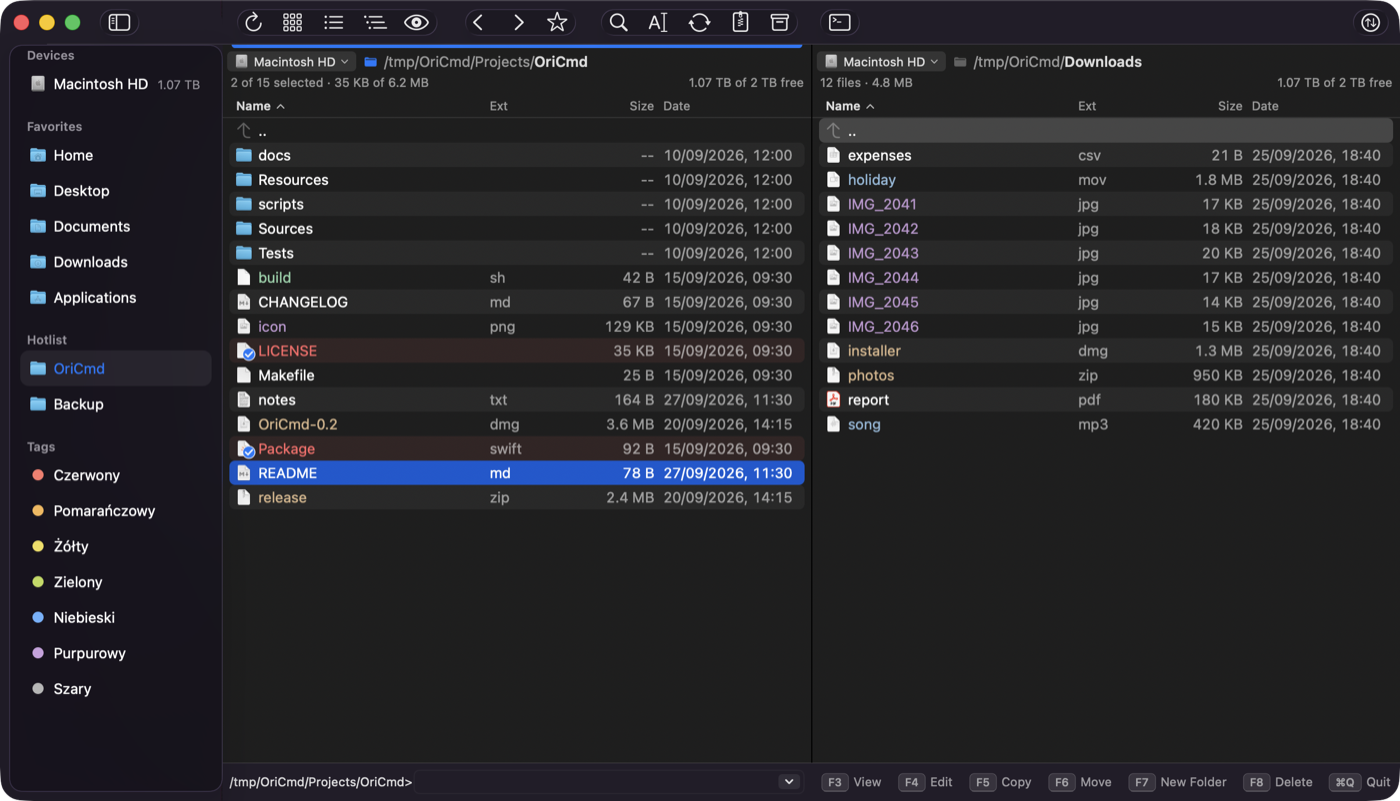
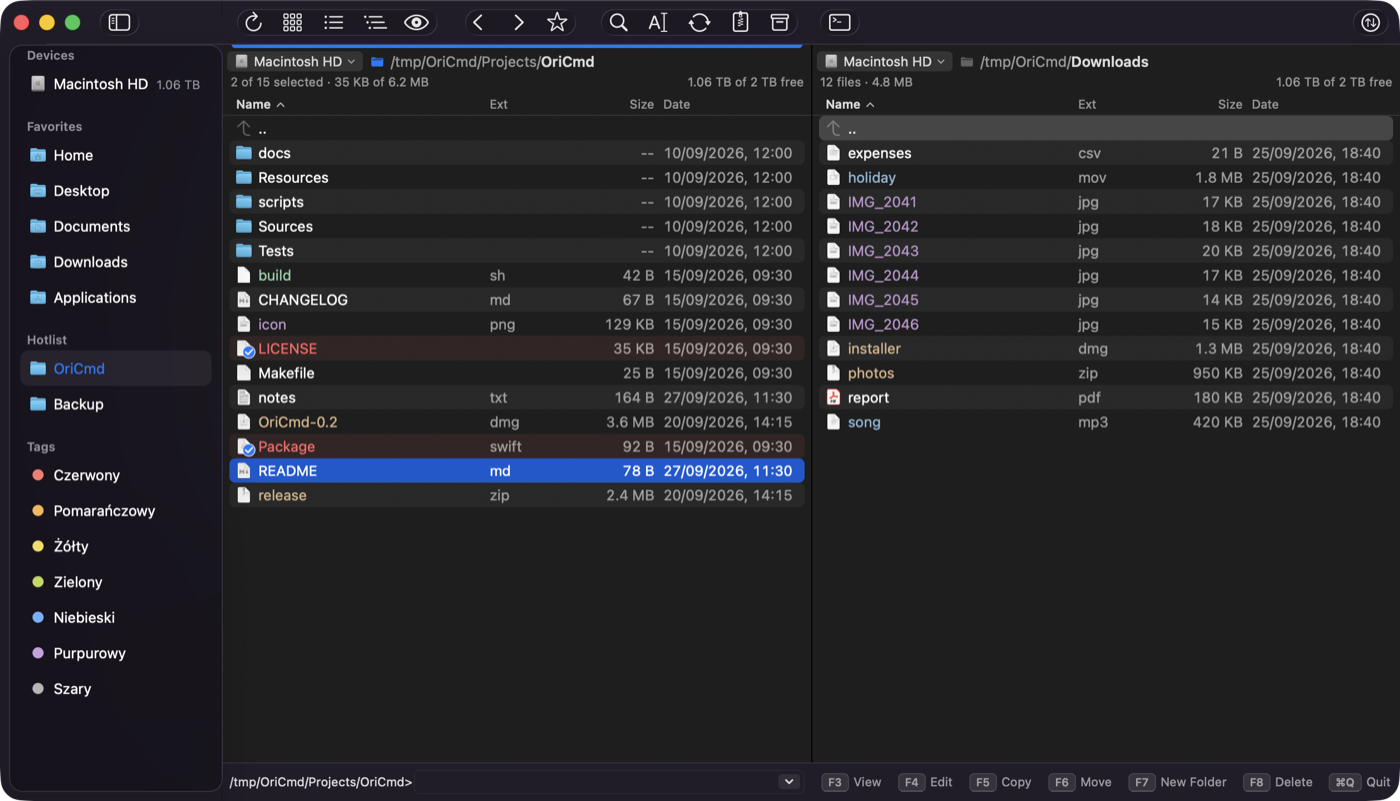
The visual refresh plan records phase 9 (the panel header's type) and the README describes it, with current screenshots
Claude-Session: https://claude.ai/code/session_01FJYYzBQq356G6ktcB5M4o3

diff --git a/docs/visual-refresh.md b/docs/visual-refresh.md
@@ -7,7 +7,8 @@ deferred; phase 3 on branch `secondary-windows` (2026-10-07); the app icon on br
 `ops-badge` (2026-10-07); phase 5, the tool windows, on branch `modern-polish`
 (2026-10-07); phase 6, thumbnails and copying, on branch `modern-details`
 (2026-10-08); phase 7, dialogs, on branch `modern-dialogs` (2026-10-08); phase 8, the
-rest of the tools, on branch `modern-tools` (2026-10-08).
+rest of the tools, on branch `modern-tools` (2026-10-08); phase 9, the panel header's
+type, on branch `modern-header` (2026-10-09).
 **Mockup:** [Today and proposed main window, interactive](https://claude.ai/artifact/CBd66sFhHtoyH7Bkzt2BeP)
 (light and dark).
 
@@ -430,6 +431,26 @@ Settings pane.
 
 **As built (phase 8).** As planned, in both looks.
 
+### Phase 9: the panel header's type
+
+The user found the panel header clumsy: different fonts, small sizes. It drew the
+path in the list's own font (Monaco 15 pt in the user's settings), and the volume,
+the counts and free space, the column titles and the tab titles in an 11 pt system
+font, so next to 15 pt rows the header mixed two families at two unrelated sizes.
+
+1. **One family.** In the Modern look every part of the header is in the system
+   font, whatever font the list uses; the list keeps its own.
+2. **Sizes in proportion to the list.** The path takes the list's size (12–18 pt),
+   the volume a point less, the tabs, the counts and free space and the column
+   titles two points less (11 pt at least). For the default 13 pt list this is the
+   old 13 and 11 pt, with the volume at 12 pt; for a 15 pt list, 15, 14 and 13 pt.
+3. **Heights from the fonts.** The path line, the counts line, the column titles and
+   the Mac-style tabs are as tall as their text needs (the same 22, 15, 22 and 24 pt
+   as before at 13 pt), and a tab leaves room for an icon that grows with the text.
+
+**As built (phase 9).** As planned; the Settings preview draws its column titles the
+same way. The Classic look keeps the list's font in the path and 11 pt elsewhere.
+
 ## The Look setting
 
 The fork already has eight appearance switches: folder brackets, Mac-style tabs,
@@ -445,7 +466,7 @@ The plan is built except the deferred 2.1 and 2.2. New visual work starts from w
 using the Modern look shows, on its own branch from `main`, behind the Look setting
 where it changes how the classic panels look. Phase 6 built what the phase 5
 survey left; phase 7 what a third survey found in the dialogs; phase 8 what a fourth
-found in the remaining tools.
+found in the remaining tools; phase 9 the header's type, at the user's request.
 
 ## Sources
 

diff --git a/README.md b/README.md
@@ -65,7 +65,8 @@ keep working as always.
 - **Mac-style panels:** compact headers, folder icons and close buttons on tabs,
   key caps on function buttons, Finder-style sizes and status summaries, folder
   colors from Finder tags, and options for folder brackets and file extensions.
-  Column widths can be dragged in the header.
+  Column widths can be dragged in the header. In the Modern look the header is in
+  the system font whatever font the list uses, its sizes in proportion to the list's.
 - **Drive information:** click the free-space or total-capacity readout to open
   Finder's information window for the panel's volume, in either header layout.
 - **Clear selection and filters:** checkmarks distinguish marked items from the
